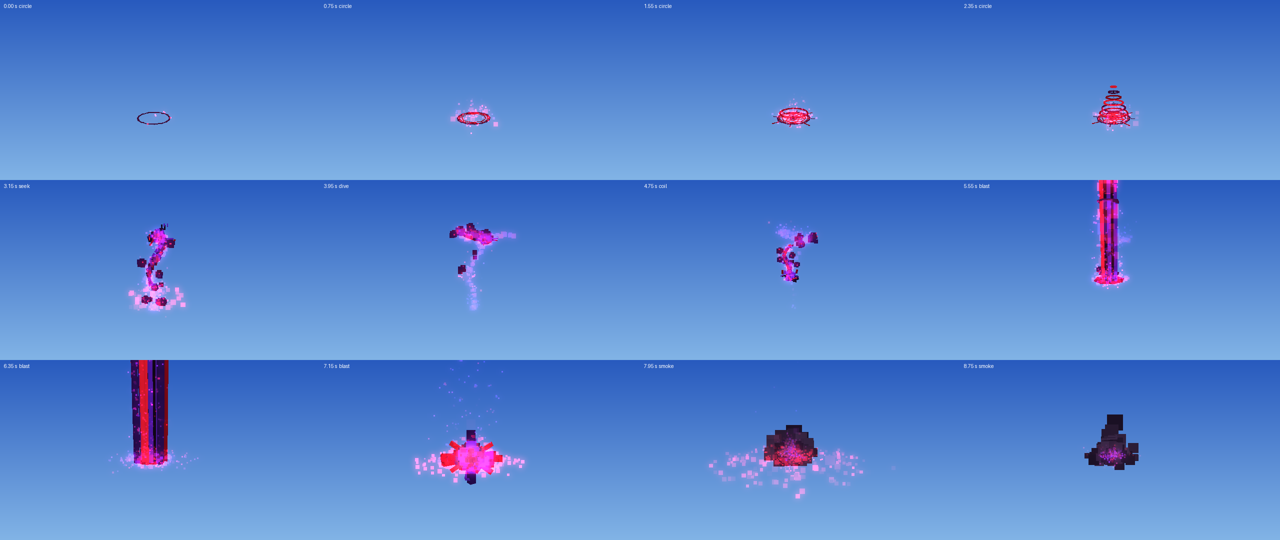
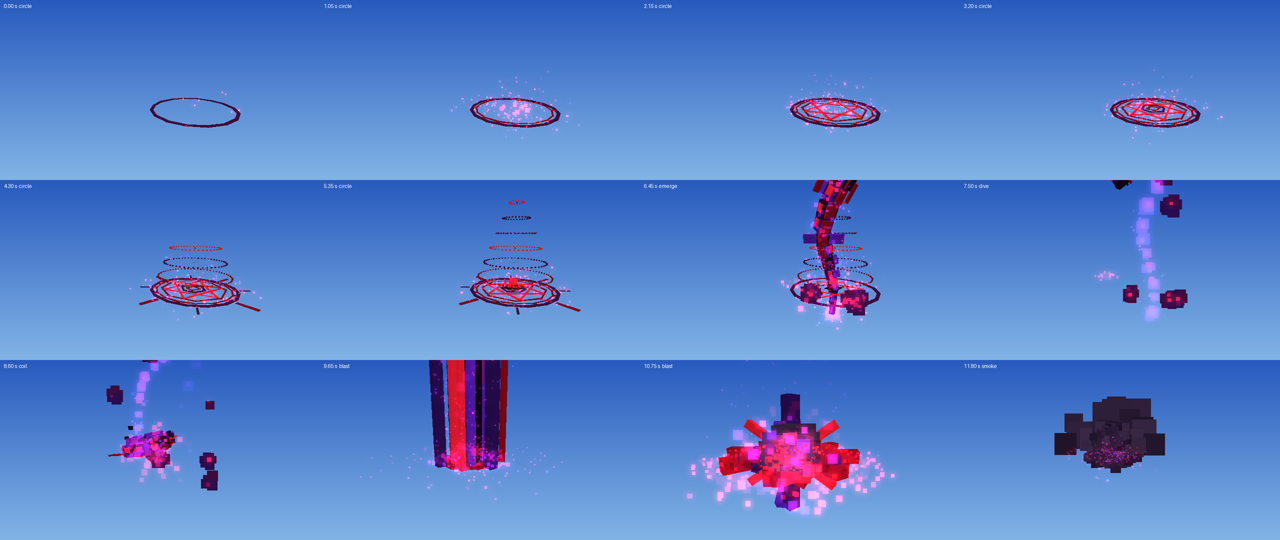
Massive dragon and ritual circle (size 3, circleSize 3); slower ritual (6 s, rings turn slower); flight, beam and explosion scale with the dragon

diff --git a/dragon_pulse/world_code.js b/dragon_pulse/world_code.js
@@ -1,9 +1,11 @@
 var DP_CFG = {
   chat: "!dp",
   item: "",
-  range: 40,
-  summon: 2.5,
-  circleDist: 4,
+  range: 60,
+  summon: 6,
+  circleDist: 16,
+  size: 3,
+  circleSize: 3,
   rise: 16,
   hitPlayers: true,
   kill: true,
@@ -11,19 +13,19 @@ var DP_CFG = {
   boom: 1,
   beam: 0.5,
   hold: 0.8,
-  radius: 16,
+  radius: 24,
   knockback: 24,
   hurtCaster: false,
   merge: true,
   mergeDist: 4,
-  megaScale: 2.2,
-  megaRise: 22,
-  nukeRadius: 44,
+  megaScale: 1.6,
+  megaRise: 20,
+  nukeRadius: 60,
   nukeDamage: 400,
   nukeKnockback: 30,
   rotate: true,
   sounds: true,
-  hideDist: 160,
+  hideDist: 400,
   maxCasts: 4,
   detail: 3,
   maxMeshes: 399,
@@ -551,7 +553,7 @@ function dpRigid(c, name, tag, pos, B, k) {
   if (id && c.fresh) dpRows(name).forEach((r) => dpHang(id, r, k, [r[6] * k, r[7] * k, r[5] * k], 0))
 }
 
-function dpEmitter(rad, col) {
+function dpEmitter(rad, col, C) {
   var a = DP_COL[col]
   var b = DP_COL.crimson
   return {
@@ -559,9 +561,9 @@ function dpEmitter(rad, col) {
     minLifeTime: 0.24,
     maxLifeTime: 0.45,
     minEmitPower: 0.05,
-    maxEmitPower: 0.25,
-    minSize: 0.12,
-    maxSize: 0.3,
+    maxEmitPower: 0.25 * C,
+    minSize: 0.12 * C,
+    maxSize: 0.3 * C,
     gravity: [0, 0.4, 0],
     velocityGradients: [{ timeFraction: 0, factor: 1, factor2: 1 }],
     colorGradients: [
@@ -571,9 +573,9 @@ function dpEmitter(rad, col) {
     ],
     blendMode: 2,
     hideDist: DP_CFG.hideDist,
-    width: rad * 2,
-    depth: rad * 2,
-    height: 0.08,
+    width: rad * 2 * C,
+    depth: rad * 2 * C,
+    height: 0.08 * C,
     emitRate: Math.round((30 + rad * 40) * DP_CFG.ringDensity),
     emitterShape: "ring",
   }
@@ -582,7 +584,10 @@ function dpEmitter(rad, col) {
 function dpCircle(c) {
   var node = DP_CFG.nodes
   for (var a = 0; a < DP_CIRCLE.length; a++) {
-    var r = DP_CIRCLE[a]
+    var q = DP_CIRCLE[a]
+    var C = DP_CFG.circleSize
+    var slow = c.T / 50
+    var r = [q[0], q[1] * C, 0, 0, 0, q[5], q[6], q[7] * C, Math.round(q[8] * slow), q[9] / slow]
     var age = c.ct - r[8]
     var row = DP_RING[a]
     if (age < 0) continue
@@ -591,7 +596,7 @@ function dpCircle(c) {
     if (DP_CFG.ringParticles && dpFlag(row, "e")) {
       if (!c.m["ring" + a + "_e"] && dpMeshes + dpOther() < DP_CFG.maxMeshes) {
         try {
-          var e = api.attemptCreateMeshEntity("ParticleEmitter", dpEmitter(r[1], r[5]))
+          var e = api.attemptCreateMeshEntity("ParticleEmitter", dpEmitter(q[1], r[5], C))
           if (e) {
             c.m["ring" + a + "_e"] = e
             dpMeshes++
@@ -604,12 +609,12 @@ function dpCircle(c) {
       if (DP_CFG.ringParticles) continue
     }
     if (node) {
-      var id = dpCarrier(c, "ringc" + r[9], c.home, null, -r[9] * c.ct)
+      var id = dpCarrier(c, "ringc" + q[9], c.home, null, -r[9] * c.ct)
       if (!id || c.hung[a]) continue
       c.hung[a] = 1
       for (var n = 0; n < r[0]; n++) {
         var ang = (r[6] * Math.PI) / 180 + (n * 2 * Math.PI) / r[0] - r[9] * r[8]
-        dpHang(id, row, 1, [Math.cos(ang) * r[1], r[7], Math.sin(ang) * r[1]], radial ? Math.atan2(Math.cos(ang), Math.sin(ang)) : Math.atan2(-Math.sin(ang), Math.cos(ang)))
+        dpHang(id, row, C, [Math.cos(ang) * r[1], r[7], Math.sin(ang) * r[1]], radial ? Math.atan2(Math.cos(ang), Math.sin(ang)) : Math.atan2(-Math.sin(ang), Math.cos(ang)))
       }
       continue
     }
@@ -618,7 +623,7 @@ function dpCircle(c) {
       var ang = (r[6] * Math.PI) / 180 + (n * 2 * Math.PI) / r[0] + r[9] * age
       var x = Math.cos(ang)
       var z = Math.sin(ang)
-      dpPut(c, "ring" + a + "_" + n, row, "", [c.home[0] + x * r[1], c.home[1] + r[7], c.home[2] + z * r[1]], radial ? [x, 0, z] : [-z, 0, x])
+      dpPut(c, "ring" + a + "_" + n, row, "", [c.home[0] + x * r[1], c.home[1] + r[7], c.home[2] + z * r[1]], radial ? [x, 0, z] : [-z, 0, x], C)
     }
   }
 }
@@ -815,40 +820,42 @@ var DP_PHASE = [
     var T = (c.T = Math.max(46, Math.round(DP_CFG.summon * 20)))
     c.ct = c.t
     if (c.t === 0) dpSound("cast", c.home)
-    if (c.t % 10 === 5) dpSound("pulse", c.home, 0.7 + c.t / T)
+    if (c.t % 16 === 5) dpSound("pulse", c.home, 0.7 + c.t / T)
     dpCircle(c)
+    var C = DP_CFG.circleSize
     var skin = DP_RITE[c.t % DP_RITE.length]
-    dpFx("mote", c.home, c.t > T - 12 ? 8 : 3, 2.6, skin[0], skin[1], [0, 1, 0])
-    if (c.t % 10 === 9) dpRingFx("shock", c.home, 0.6, 2, 1, 0.03, "blood", "crimson", 6, c.t)
-    if (c.t % 2 === 0) dpFx("ember", c.home, 3, 3.4, skin[0], "crimson", null, 0.4)
-    if (c.t % 3 === 0 && c.t > 12) dpRingFx("gather", dpAdd(c.home, [0, 1, 0], 0.5), 3.6, 2, -1, 0.05, "crimson", "purple", 6, c.t * 0.3)
-    if (c.t > T - 16) dpFx("mote", c.home, 4, 0.5, "crimson", "blood", [0, 1, 0], 0.5)
-    if (c.t > T - 6 && c.t % 2 === 0) dpFx("glow", dpAdd(c.home, [0, 1, 0], 0.7), 1, 0.3, "crimson")
+    dpFx("mote", c.home, c.t > T - 12 ? 8 : 3, 2.6 * C, skin[0], skin[1], [0, 1, 0])
+    if (c.t % 10 === 9) dpRingFx("shock", c.home, 0.6 * C, 2, 1, 0.03, "blood", "crimson", 6, c.t)
+    if (c.t % 2 === 0) dpFx("ember", c.home, 5, 3.4 * C, skin[0], "crimson", null, 0.4)
+    if (c.t % 3 === 0 && c.t > 12) dpRingFx("gather", dpAdd(c.home, [0, 1, 0], 0.5), 3.6 * C, 2, -1, 0.05, "crimson", "purple", 6, c.t * 0.3)
+    if (c.t > T - 16) dpFx("mote", c.home, 4, 0.5 * C, "crimson", "blood", [0, 1, 0], 0.5)
+    if (c.t > T - 6 && c.t % 2 === 0) dpFx("glow", dpAdd(c.home, [0, 1, 0], 0.7 * C), 1, 0.3, "crimson")
     if (c.t === T - 24) dpSound("build", c.home)
     if (c.t >= T - 1) dpNext(c)
   },
 
   function (c) {
     var h = c.t + 1
-    var mid = [c.home[0], c.home[1] - 2 + h * 1.25, c.home[2]]
+    var s = c.k
+    var mid = [c.home[0], c.home[1] + (h * 1.25 - 2) * s, c.home[2]]
     if (c.t === 0) {
-      c.path = [[mid[0], mid[1] - 1.5, mid[2]]]
-      dpGroup(c, "pillar", "pillar_", "", c.home, DP_UP, 1, true)
-      dpFx("flash", c.home, 12, 1.5)
-      dpFx("ring", c.home, 20, 0.4)
+      c.path = [[mid[0], mid[1] - 1.5 * s, mid[2]]]
+      dpGroup(c, "pillar", "pillar_", "", c.home, DP_UP, s, true)
+      dpFx("flash", c.home, 12, 1.5 * s)
+      dpFx("ring", c.home, 20, 0.4 * s)
       dpFx("glow", c.home, 5, 1.5, "crimson")
-      dpFx("debris", c.home, 10, 1.2, "", "", [0, 1, 0])
-      dpRingFx("shock", c.home, 1.5, 4, 1, 0.08, "crimson", "purple", 8)
+      dpFx("debris", c.home, 10, 1.2 * s, "", "", [0, 1, 0])
+      dpRingFx("shock", c.home, 1.5 * s, 4, 1, 0.08, "crimson", "purple", 8)
       dpSound("emerge", c.home)
     }
     c.ct = c.T + c.t
     if (c.t === 0 && !DP_CFG.nodes) DP_RING.forEach((row, a) => dpFlag(row, "k") || dpDrop(c, "ring" + a + "_"))
     dpCircle(c)
     if (c.t === 7) dpDrop(c, "pillar_")
-    dpFx("mote", c.home, 6, 2.6, "crimson", "purple", [0, 1, 0])
-    dpFx("streak", c.home, 4, 1.2, "", "", [0, 1, 0], h * 1.2)
-    if (c.t % 3 === 1) dpRingFx("shock", c.home, 1 + c.t * 0.35, 2, 0.6, 0.05, "blood", "crimson", 6, c.t)
-    dpSpiral(c, mid, Math.min(2, h * 0.2), 0.5)
+    dpFx("mote", c.home, 6, 2.6 * s, "crimson", "purple", [0, 1, 0])
+    dpFx("streak", c.home, 4, 1.2 * s, "", "", [0, 1, 0], h * 1.2 * s)
+    if (c.t % 3 === 1) dpRingFx("shock", c.home, (1 + c.t * 0.35) * s, 2, 0.6, 0.05, "blood", "crimson", 6, c.t)
+    dpSpiral(c, mid, Math.min(2, h * 0.2) * s, 0.5)
     if (mid[1] >= c.home[1] + c.reach) {
       dpDrop(c, "ring")
       dpDrop(c, "pillar_")
@@ -857,8 +864,8 @@ var DP_PHASE = [
   },
 
   function (c) {
-    var top = [c.home[0], c.home[1] + c.reach + Math.sin(c.t * 0.5) * 0.8, c.home[2]]
-    dpSpiral(c, top, Math.min(3.5, 2 + c.t * 0.15), 0.45)
+    var top = [c.home[0], c.home[1] + c.reach + Math.sin(c.t * 0.5) * 0.8 * c.k, c.home[2]]
+    dpSpiral(c, top, Math.min(3.5, 2 + c.t * 0.15) * c.k, 0.45)
     if (c.t < 11) return
     if (!c.target) c.target = dpPick(c.id, c.home)
     var goal = dpGoal(c)
@@ -876,26 +883,30 @@ var DP_PHASE = [
   function (c) {
     var goal = dpGoal(c)
     var left = dpLen(dpSub(goal, c.at))
-    var speed = 1.15
+    var s = c.k
+    var speed = 1.15 * s
     if (left <= speed || c.t > 70) {
       c.spin = Math.atan2(c.at[2] - goal[2], c.at[0] - goal[0])
       return dpNext(c)
     }
     var B = dpBasis(dpNorm(dpSub(goal, c.at)))
     c.at = dpAdd(c.at, B[0], speed)
-    var weave = Math.min(2.2, left * 0.25, c.t * 0.3)
-    var arch = Math.sin(Math.PI * Math.min(1, left / c.far)) * Math.min(4, c.far * 0.2)
+    var weave = Math.min(2.2 * s, left * 0.25, c.t * 0.3 * s)
+    var arch = Math.sin(Math.PI * Math.min(1, left / c.far)) * Math.min(4 * s, c.far * 0.2)
     dpFly(c, dpAt(c.at, B, 0, Math.sin(c.t * 0.42) * weave, Math.sin(c.t * 0.21 + 1) * weave * 0.6 + arch))
   },
 
   function (c) {
     var goal = dpGoal(c)
-    var rad = c.t < 4 ? 0.65 * (c.t + 1) : 2.6 - (c.t - 3) * 0.15
+    var s = c.k
+    var rad = (c.t < 4 ? 0.65 * (c.t + 1) : 2.6 - (c.t - 3) * 0.15) * s
     var ang = c.spin + c.t * 0.55
-    dpFly(c, [goal[0] + Math.cos(ang) * rad, goal[1] - 0.5 + c.t * 0.2, goal[2] + Math.sin(ang) * rad])
+    dpFly(c, [goal[0] + Math.cos(ang) * rad, goal[1] + (c.t * 0.2 - 0.5) * s, goal[2] + Math.sin(ang) * rad])
     if (c.t === 2 || c.t === 7) {
-      var at = dpAt(goal, c.B, 0, c.t === 2 ? -0.8 : 0.9, c.t === 2 ? 0.2 : 0.7)
-      for (var j = 1; j < 5; j++) dpShape("ray", at, dpBall(12), 0.3 * j, 3 * j)
+      var at = dpAt(goal, c.B, 0, (c.t === 2 ? -0.8 : 0.9) * s, (c.t === 2 ? 0.2 : 0.7) * s)
+      dpSize = s
+      for (var j = 1; j < 5; j++) dpShape("ray", at, dpBall(12), 0.3 * j * s, 3 * j * s)
+      dpSize = 1
       dpFx("impact", at, 12, 0.3)
       dpFx("glow", at, 3, 0.4, c.t === 2 ? "cyan" : "gold")
       dpRingFx("shock", at, 0.6, 3, 1, 0, "lilac", c.t === 2 ? "cyan" : "gold", 6)
@@ -906,9 +917,9 @@ var DP_PHASE = [
 
   function (c) {
     var goal = dpGoal(c)
-    var b = DP_CFG.boom
+    var b = DP_CFG.boom * Math.max(1, DP_CFG.size / 1.5)
     if (c.t === 0) dpDrop(c, "")
-    var st = dpFinale(c, [goal[0], goal[1] - 1, goal[2]], 2 * b, 72 * b, DP_CFG.radius, 1, b)
+    var st = dpFinale(c, [goal[0], goal[1] - 1, goal[2]], 2 * b, 72 * DP_CFG.boom, DP_CFG.radius, 1, b)
     if (st === 1) {
       dpSound("blast", goal)
       dpHurt(c, goal, DP_CFG.radius, DP_CFG.damage, DP_CFG.knockback)
@@ -918,7 +929,7 @@ var DP_PHASE = [
 
   function (c) {
     if (c.t === 0) dpDrop(c, "blast_")
-    var b = 1.2 * DP_CFG.boom
+    var b = 1.2 * DP_CFG.boom * Math.max(1, DP_CFG.size / 1.5)
     if (c.t % 8 === 0 && c.t < 17) dpShape("puff", [c.goal[0], c.goal[1] + 1.5 * b + c.t * 0.1, c.goal[2]], dpBall(c.t ? 14 : 26), (2.2 - c.t * 0.08) * b, 1.2, "", "", 0.8)
     if (c.t === 0) dpShape("puff", [c.goal[0], c.goal[1] + 0.5, c.goal[2]], dpRing(20), 2 * b, 4)
     if (c.t < 26 && c.t % 2 === 0) dpFx("smoke", dpAt(c.goal, c.B, 0, 0, 1.5 * b), 7, 2.5 * b)
@@ -930,6 +941,7 @@ var DP_PHASE = [
 
   function (c) {
     var h = c.t + 1
+    var z = DP_CFG.size
     if (c.t === 0) {
       dpFx("flash", c.base, 20, 3)
       dpFx("wave", c.base, 20, 0.5)
@@ -939,14 +951,14 @@ var DP_PHASE = [
       dpSound("merge", c.base)
       dpSound("climb", c.base)
     }
-    dpSpiral(c, [c.base[0], c.base[1] + h * 0.8, c.base[2]], Math.min(4, h * 0.4), 0.36)
+    dpSpiral(c, [c.base[0], c.base[1] + h * 0.8 * z, c.base[2]], Math.min(4, h * 0.4) * z, 0.36)
     if (c.t % 4 === 0) dpFx("ring", c.at, 12, 0.5)
     if (c.t % 3 === 0) dpRingFx("gather", c.at, 6, 3, -1, 0, "cyan", "magenta", 6, c.t)
-    if (h * 0.8 >= c.reach) dpNext(c)
+    if (h * 0.8 * z >= c.reach) dpNext(c)
   },
 
   function (c) {
-    var b = DP_CFG.boom
+    var b = DP_CFG.boom * Math.max(1, DP_CFG.size / 2)
     if (c.t === 0) {
       dpDrop(c, "")
       c.ground = dpAdd(c.at, [0, -1, 0], dpFree(c.at, [0, -1, 0], 60) - 1)
@@ -962,7 +974,7 @@ var DP_PHASE = [
   },
 
   function (c) {
-    var b = DP_CFG.boom
+    var b = DP_CFG.boom * Math.max(1, DP_CFG.size / 2)
     if (c.t === 0) dpDrop(c, "blast_")
     if (c.t % 8 === 0 && c.t < 33) dpSound("rumble", c.ground, 1 - c.t * 0.01)
     var wide = (4 + 16 * (1 - Math.pow(1 - Math.min(1, (c.t + 1) / 26), 2))) * b
@@ -1061,13 +1073,13 @@ function dragonPulse(playerId, eye, dir) {
     ph: 0,
     t: 0,
     m: {},
-    k: 1,
+    k: DP_CFG.size,
     hung: {},
     B: dpBasis(flat),
     home: home,
     at: home,
     ang: Math.atan2(flat[2], flat[0]),
-    reach: Math.max(6, dpFree(dpAdd(home, [0, 1, 0], 1), [0, 1, 0], DP_CFG.rise) - 2),
+    reach: Math.max(6, dpFree(dpAdd(home, [0, 1, 0], 1), [0, 1, 0], DP_CFG.rise * DP_CFG.size) - 2),
     target: dpPick(playerId, eye, f),
     goal: dpAdd(eye, f, Math.max(2, dpFree(eye, f, DP_CFG.range) - 0.5)),
     path: [],
@@ -1106,12 +1118,12 @@ function dpMerge() {
       if (a.ph === 7) continue
       var mid = dpAdd(a.at, dpSub(b.at, a.at), 0.5)
       dpDrop(a, "")
-      a.k = DP_CFG.megaScale
+      a.k = DP_CFG.megaScale * DP_CFG.size
       a.ph = 7
       a.t = 0
       a.at = a.base = mid
-      a.path = [[mid[0], mid[1] - 2, mid[2]]]
-      a.reach = Math.max(8, dpFree(mid, [0, 1, 0], DP_CFG.megaRise) - 2)
+      a.path = [[mid[0], mid[1] - 2 * DP_CFG.size, mid[2]]]
+      a.reach = Math.max(8, dpFree(mid, [0, 1, 0], DP_CFG.megaRise * DP_CFG.size) - 2)
     }
   }
 }

diff --git a/dragon_pulse/tools/render.py b/dragon_pulse/tools/render.py
@@ -126,8 +126,8 @@ strip.resize((W * 2, H * 3 // 2)).save(os.path.join(out, 'timeline.png'))
 
 # Six moments from close by. The last two are two dragons that met.
 tick_of = lambda frames, ph, i: [f['t'] for f in frames if f['ph'] == ph][i]
-shots = [(one, one_live, 0, -1, 11), (one, one_live, 1, 9, 16), (one, one_live, 5, 22, 75),
-         (one, one_live, 5, 29, 40), (one, one_live, 5, 36, 45), (two, two_live, 9, 9, 110)]
+shots = [(one, one_live, 0, -1, 34), (one, one_live, 1, 11, 60), (one, one_live, 2, 8, 80),
+         (one, one_live, 5, 29, 60), (one, one_live, 5, 36, 70), (two, two_live, 7, 14, 110)]
 sheet = Image.new('RGB', (W * 3, H * 2))
 for i, (frames, live, ph, at, back) in enumerate(shots):
     t = tick_of(frames, ph, at)

diff --git a/README.md b/README.md
@@ -133,9 +133,9 @@ The meshes sit over your own skin; they do not hide it.
 
 | File | Goes into | Characters | Limit |
 |---|---|---|---|
-| `world_code.js` | World Code | 43,889 | 512,000 |
-| `goodra.js` | World Code, below `world_code.js` | 10,215 | 512,000 together: 54,105 |
-| `skin.js` | World Code | 6,032 | 512,000, all three together: 60,138 |
+| `world_code.js` | World Code | 44,585 | 512,000 |
+| `goodra.js` | World Code, below `world_code.js` | 10,215 | 512,000 together: 54,801 |
+| `skin.js` | World Code | 6,032 | 512,000, all three together: 60,834 |
 | `code_block.js` | Code Block | 18 | 32,000 |
 | `studio/particles_only.code_block.js` | Code Block | 6,430 | 32,000 |
 
